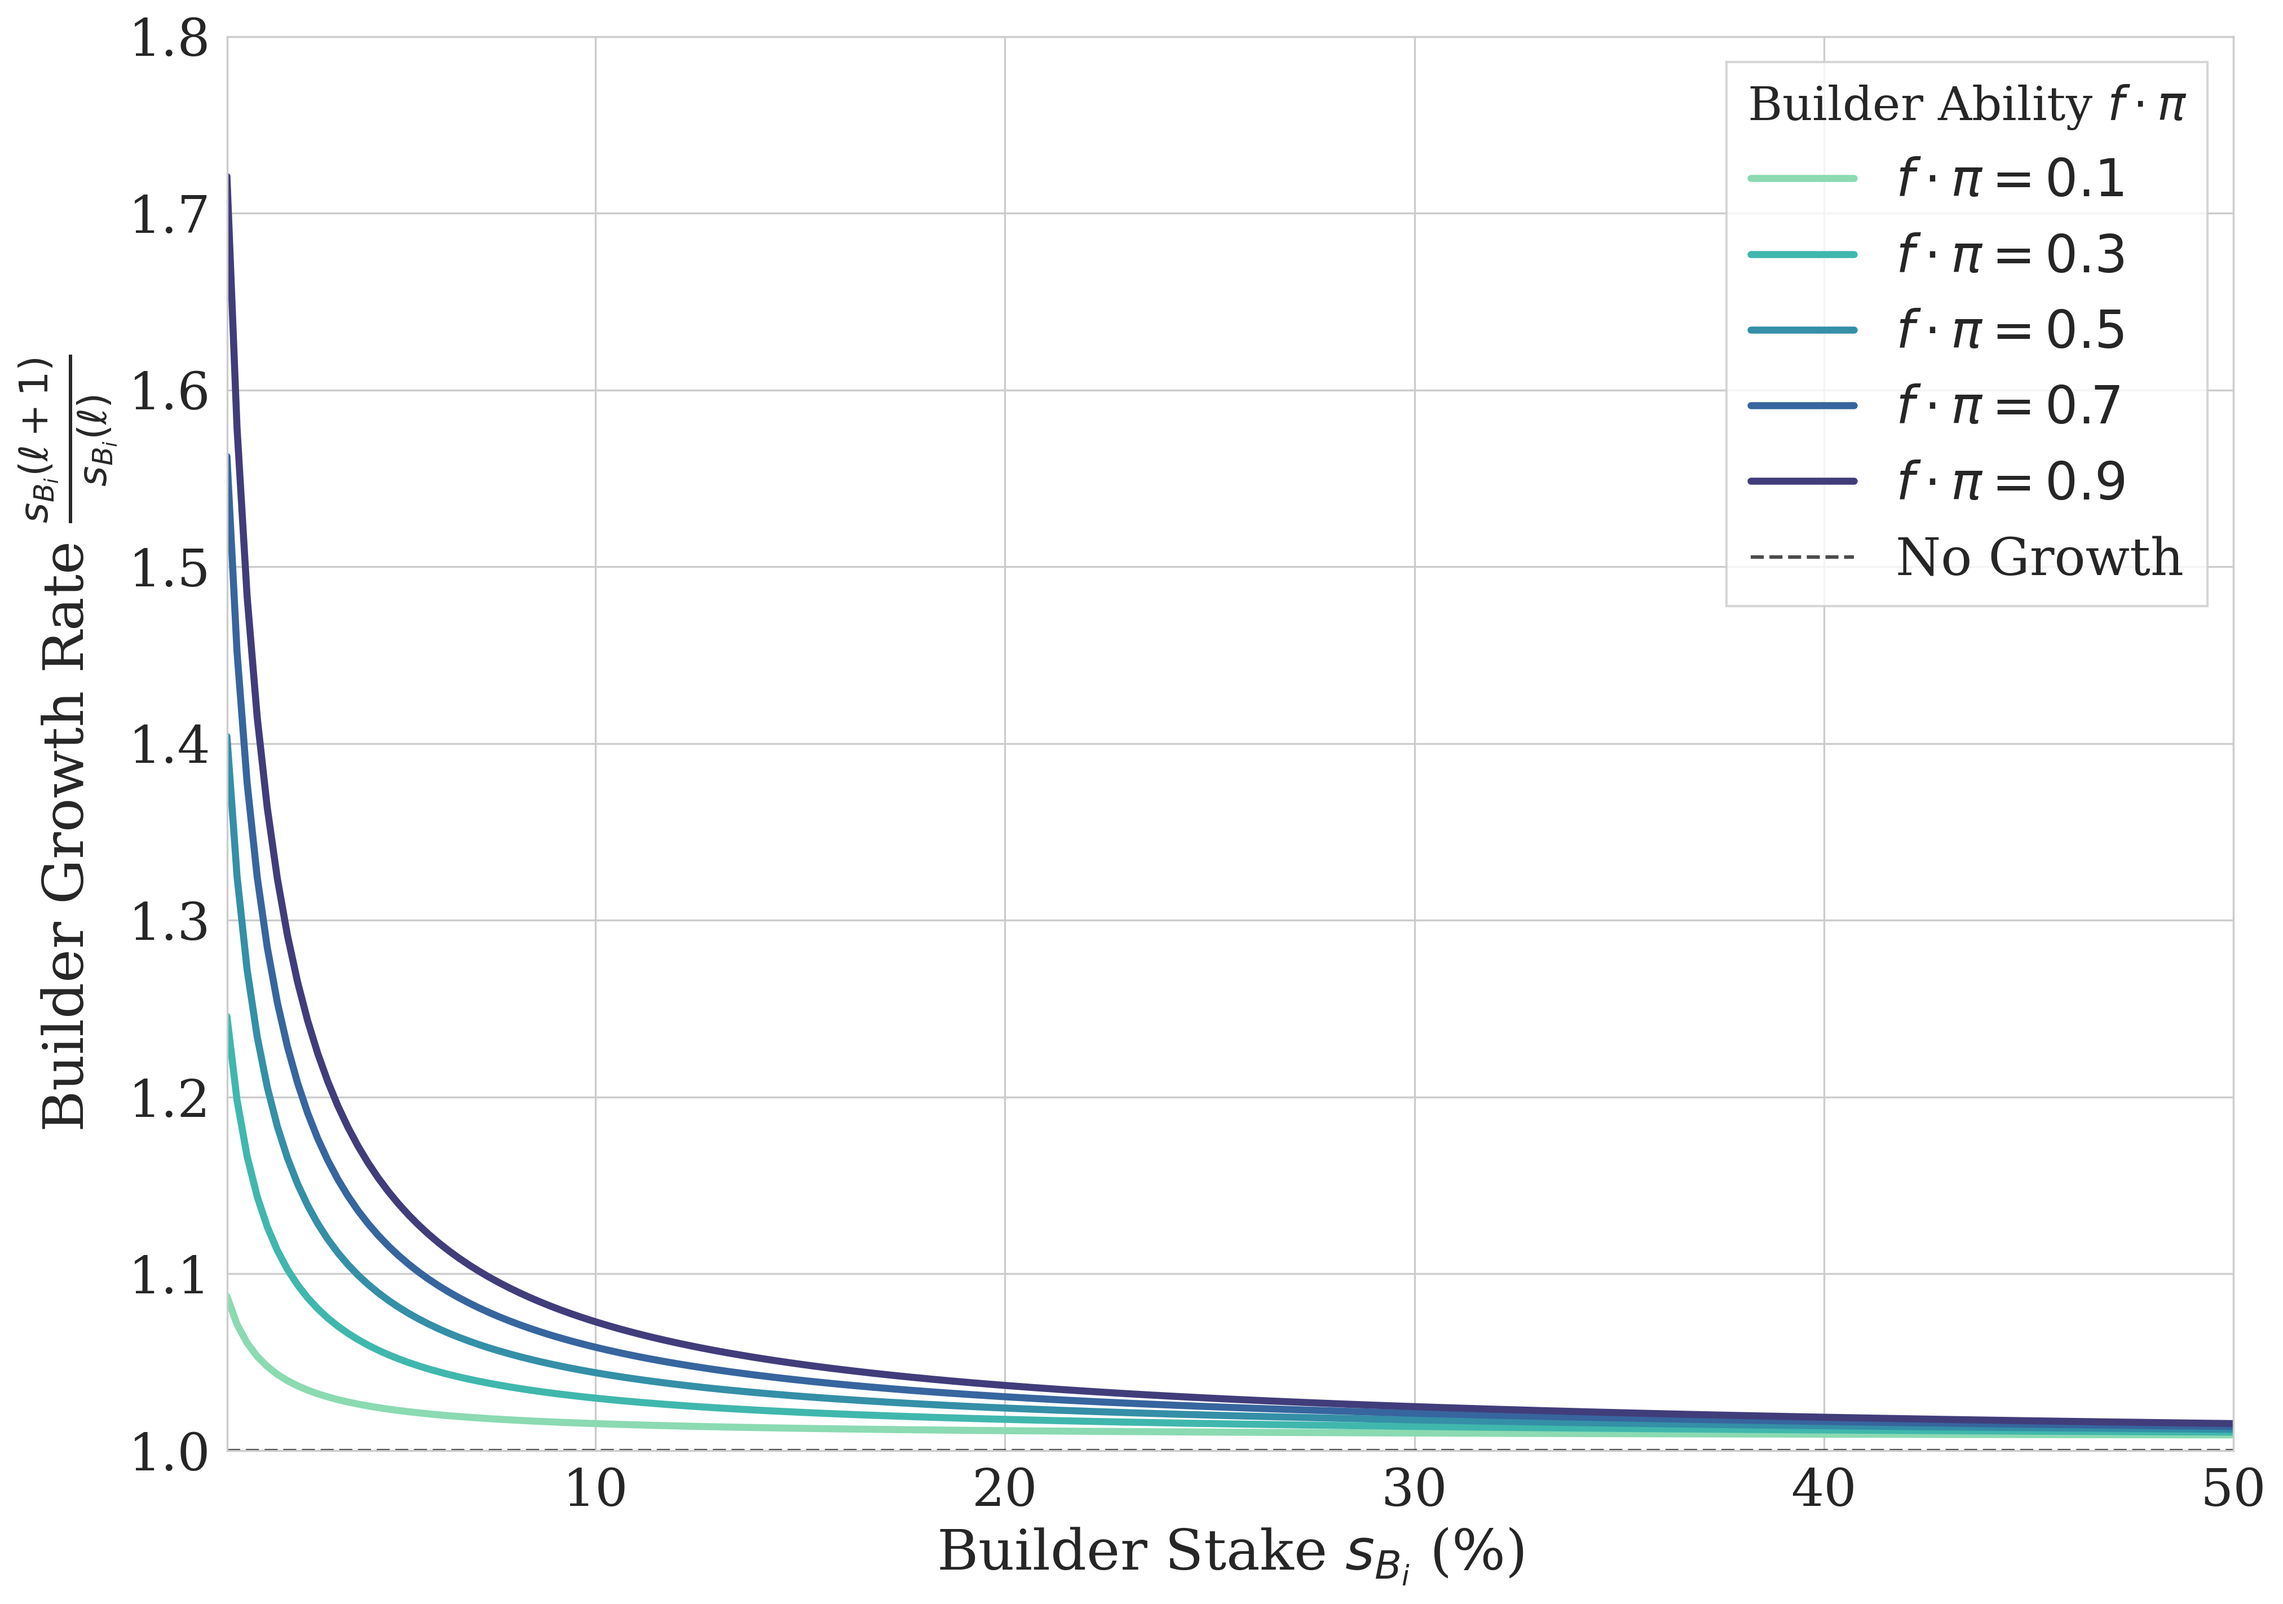
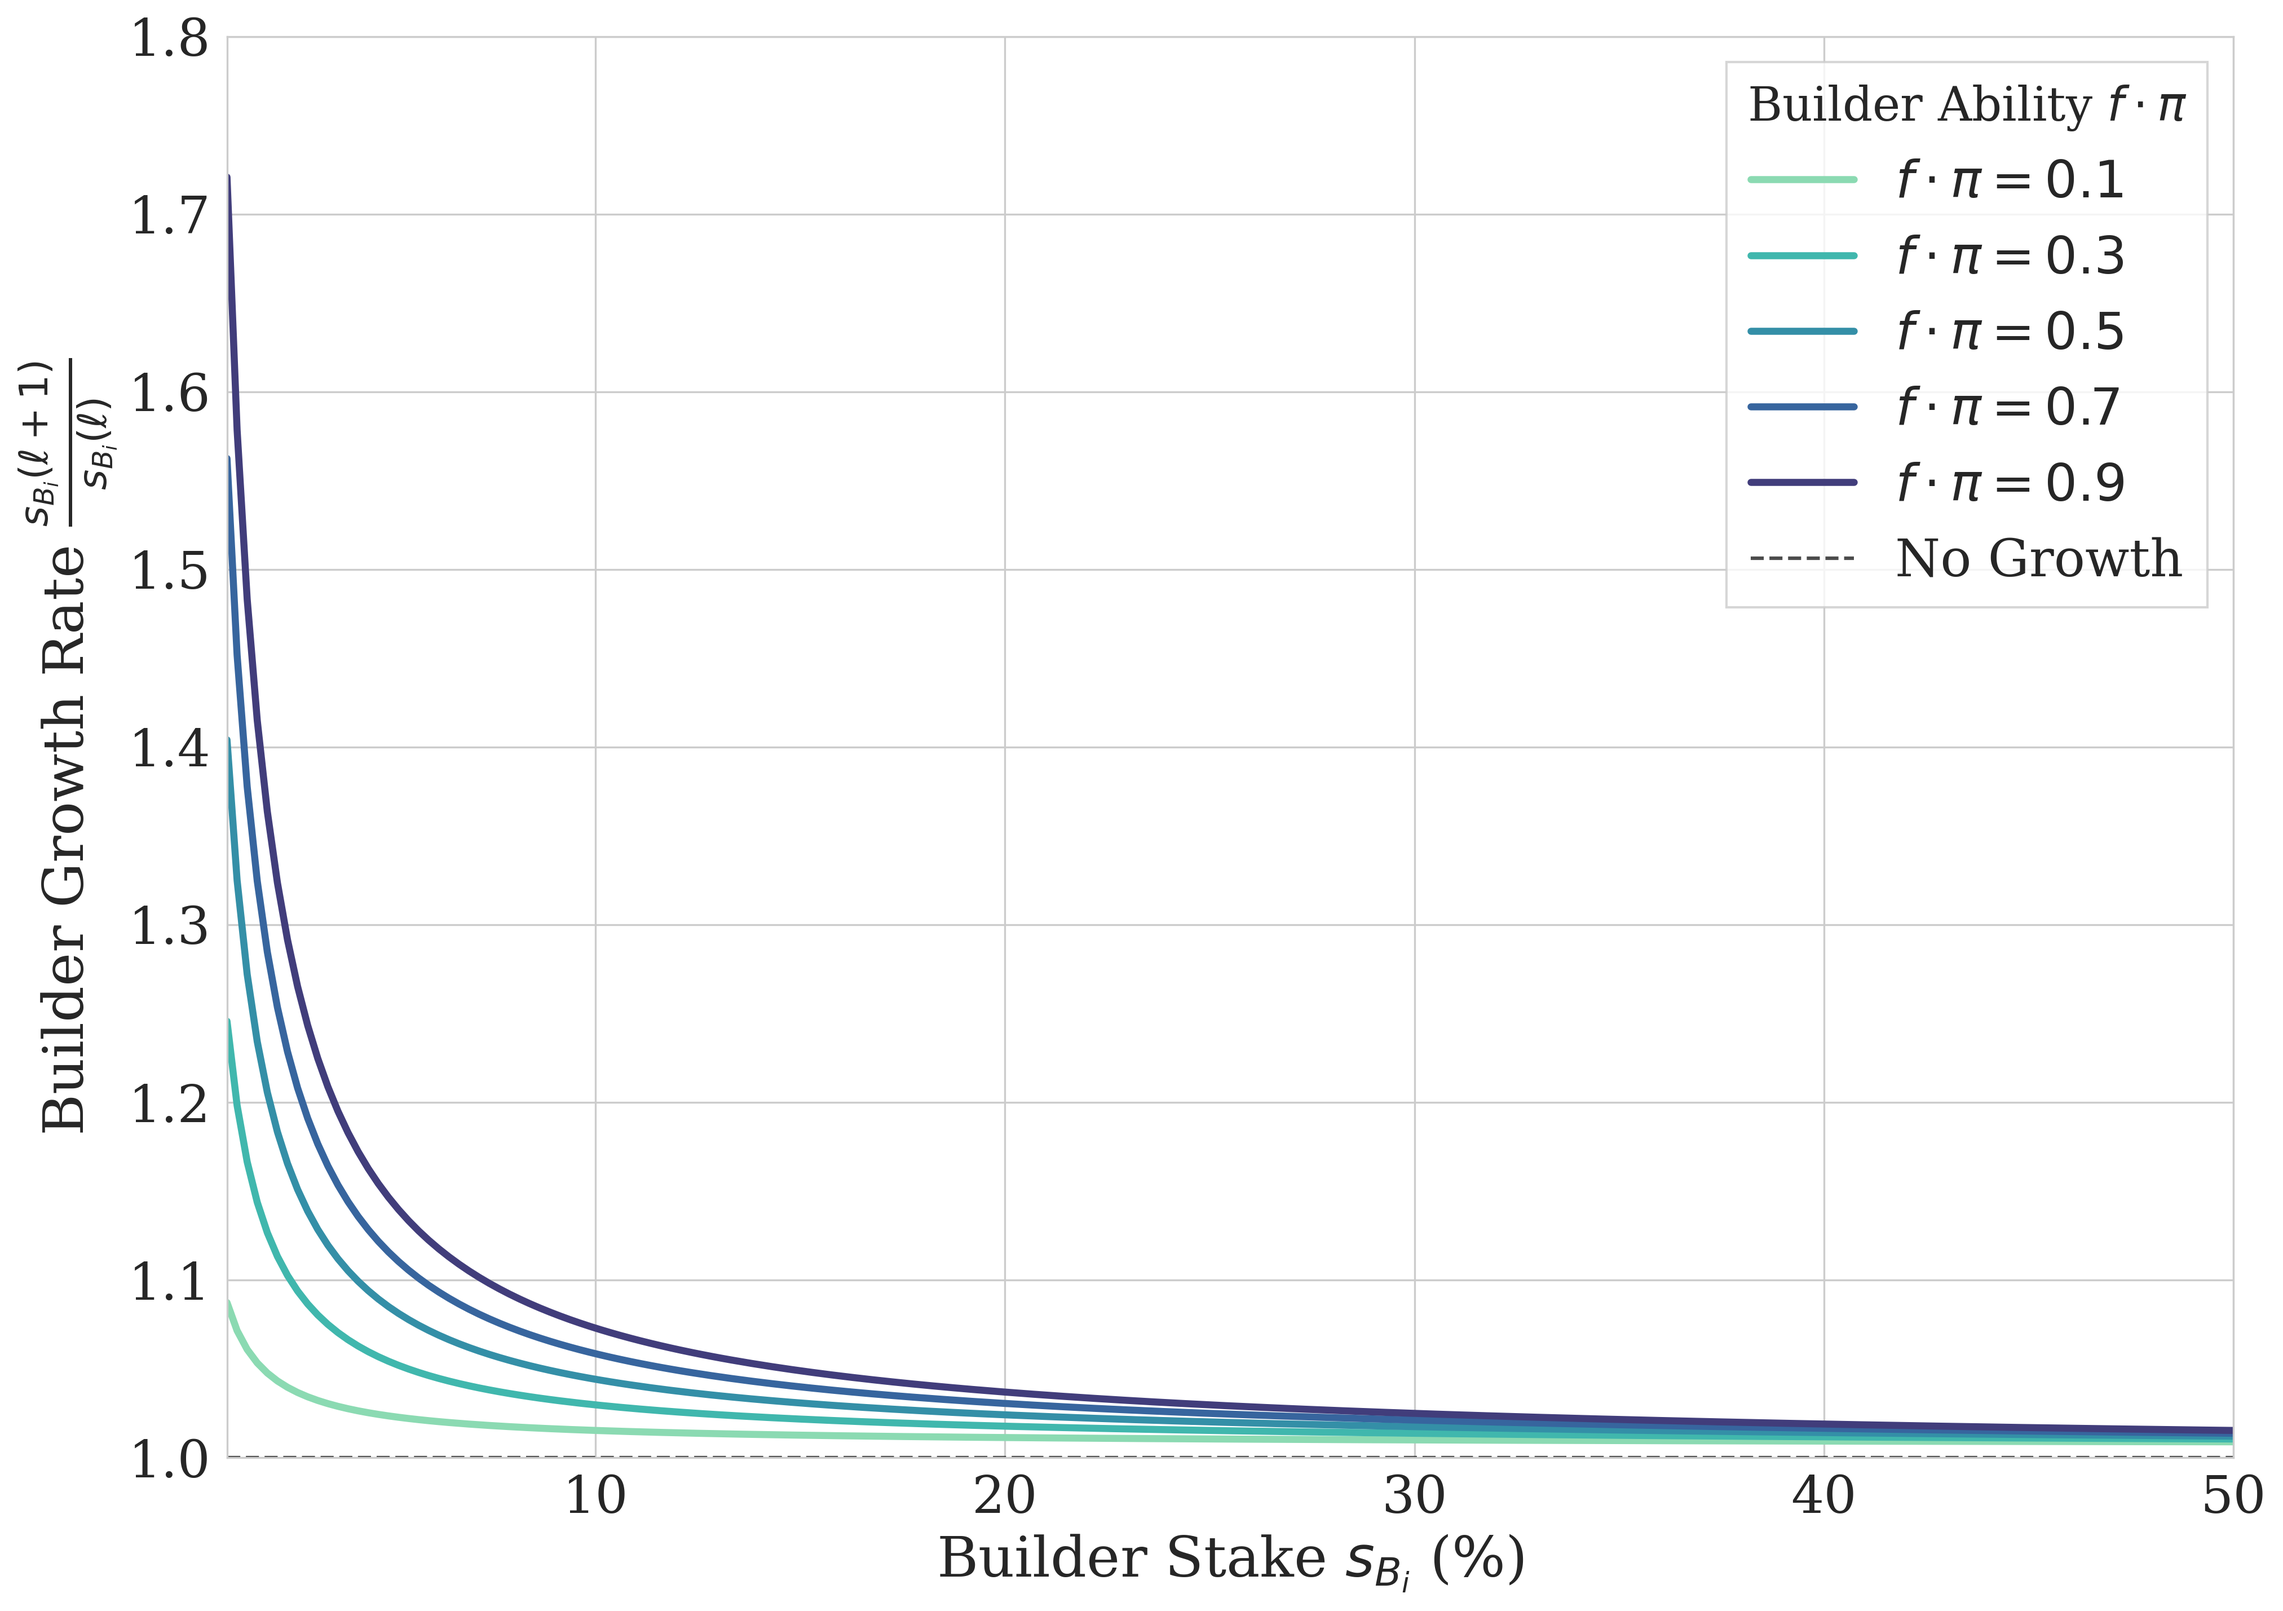
update theory

diff --git a/plots/theory/restaking.py b/plots/theory/restaking.py
@@ -1,0 +1,216 @@
+import numpy as np
+import matplotlib.pyplot as plt
+import seaborn as sns
+from matplotlib import rcParams
+
+# Set up seaborn plotting style
+sns.set_style("whitegrid")
+palette = sns.color_palette("mako_r", 6)
+rcParams.update({
+    'font.family': 'serif',
+    'font.size': 22,
+    'axes.labelsize': 24,
+    'xtick.labelsize': 22,
+    'ytick.labelsize': 22,
+    'legend.fontsize': 22
+})
+
+def builder_growth_rate(f_pi, s_Bi, total_stake, gamma_Bi, v_i_T):
+    """Calculate the builder growth rate based on the derived formula."""
+    term1 = v_i_T * (1 - f_pi) / total_stake
+    term2 = f_pi * v_i_T / s_Bi
+    growth_rate = 1 + gamma_Bi * (term1 + term2)
+    return growth_rate
+
+def proposer_growth_rate(f_pi, s_Pi, total_stake, gamma_Pi, b_i_T):
+    """Calculate the proposer growth rate based on the derived formula."""
+    # Original simple formula: s_Pi(ℓ+1) = s_Pi(ℓ) + γ_Pi * (s_Pi(ℓ)/∑_j s_j(ℓ)) * b_i,T(ℓ)
+    # Growth rate = 1 + γ_Pi * b_i,T / ∑_j s_j
+    # Scale up b_i_T to make it comparable to builder plots
+    scaled_reward = f_pi * b_i_T * 10  # Scale factor to match builder range
+    growth_rate = 1 + gamma_Pi * scaled_reward / total_stake
+    return growth_rate
+
+def create_builder_growth_theory_plot():
+    """Create the theoretical plot showing builder growth rate vs stake percentage for different f·π values."""
+    
+    # Parameters
+    stake_percentages = np.linspace(0.01, 0.5, 200)  # 1% to 50% of total stake
+    total_stake = 1000
+    gamma_Bi = 0.8
+    v_i_T = 10
+    
+    # Different f·π values
+    f_pi_values = [0.1, 0.3, 0.5, 0.7, 0.9]
+    
+    # Create the plot
+    fig, ax = plt.subplots(figsize=(14, 10))
+    
+    # Plot each f·π value
+    for i, f_pi in enumerate(f_pi_values):
+        growth_rates = []
+        for stake_pct in stake_percentages:
+            s_Bi = total_stake * stake_pct
+            growth_rate = builder_growth_rate(f_pi, s_Bi, total_stake, gamma_Bi, v_i_T)
+            growth_rates.append(growth_rate)
+        
+        ax.plot(stake_percentages * 100, growth_rates, 
+                linewidth=3, color=palette[i], label=f'$f \cdot \pi = {f_pi}$')
+    
+    # Add horizontal line at growth rate = 1
+    ax.axhline(y=1, color='black', linestyle='--', alpha=0.7, linewidth=1.5, 
+               label='No Growth')
+    
+    # Customize the plot
+    ax.set_xlabel(r'Builder Stake $s_{B_i}$ (%)', fontsize=24)
+    ax.set_ylabel(r'Builder Growth Rate $\frac{s_{B_i}(\ell+1)}{s_{B_i}(\ell)}$', fontsize=24)
+    ax.set_xlim(1, 50)
+    ax.set_ylim(1.0, 1.8)
+    
+    # Legend
+    ax.legend(title=r'Builder Ability $f \cdot \pi$', title_fontsize=20, fontsize=22, 
+             loc='upper right', frameon=True, fancybox=False, shadow=False)
+    
+    plt.tight_layout()
+    return fig
+
+
+def create_stake_evolution_plot():
+    """Create the plot showing builder stake evolution over time slots."""
+    
+    # Parameters
+    total_stake = 1000
+    gamma_Bi = 0.8
+    v_i_T = 10
+    
+    # Different fπ values
+    f_pi_values = [0.1, 0.3, 0.5, 0.7, 0.9]
+    
+    # Single initial stake (small starting point)
+    initial_stake = 10  # Start with 1% of total stake
+    s_initial = initial_stake
+    
+    # Time slots - more blocks
+    time_slots = np.arange(0, 201)  # 0 to 200 slots
+    
+    # Create the plot
+    fig, ax = plt.subplots(figsize=(14, 10))
+    
+    # Plot for each fπ value
+    for i, f_pi in enumerate(f_pi_values):
+        # Calculate stake evolution
+        stakes = [s_initial]
+        
+        for slot in range(1, len(time_slots)):
+            # Calculate growth rate
+            growth_rate = builder_growth_rate(f_pi, stakes[-1], total_stake, gamma_Bi, v_i_T)
+            # Update stake
+            new_stake = stakes[-1] * growth_rate
+            stakes.append(new_stake)
+        
+        # Plot the line
+        ax.plot(time_slots, stakes, 
+                linewidth=3, color=palette[i], label=f'$f \cdot \pi = {f_pi}$')
+    
+    # Add horizontal line for total stake
+    ax.axhline(y=total_stake, color='red', linestyle='--', alpha=0.7, linewidth=2, 
+               label='Total Stake')
+    
+    # Customize the plot
+    ax.set_xlabel(r'Time Slot $\ell$', fontsize=24)
+    ax.set_ylabel(r'Builder Stake $s_{B_i}$ (%)', fontsize=24)
+    ax.set_xlim(0, 200)
+    ax.set_ylim(0, total_stake)  # Stop at 100%
+    
+    # Convert y-axis to percentage
+    ax.yaxis.set_major_formatter(plt.FuncFormatter(lambda y, _: '{:.0f}'.format(y/total_stake*100)))
+    
+    # Legend
+    ax.legend(title=r'Builder Ability $f \cdot \pi$', title_fontsize=20, fontsize=22, 
+             loc='upper left', frameon=True, fancybox=False, shadow=False)
+    
+    plt.tight_layout()
+    return fig
+
+def create_proposer_stake_evolution_plot():
+    """Create the plot showing proposer stake evolution over time slots."""
+    
+    # Parameters
+    total_stake = 1000
+    gamma_Pi = 0.8
+    b_i_T = 10  # Fixed proposer reward
+    
+    # Different f·π values (same as builder)
+    f_pi_values = [0.1, 0.3, 0.5, 0.7, 0.9]
+    
+    # Single initial stake (small starting point)
+    initial_stake = 10  # Start with 1% of total stake
+    s_initial = initial_stake
+    
+    # Time slots - more blocks
+    time_slots = np.arange(0, 201)  # 0 to 200 slots
+    
+    # Create the plot
+    fig, ax = plt.subplots(figsize=(14, 10))
+    
+    # Plot for each f·π value
+    for i, f_pi in enumerate(f_pi_values):
+        # Calculate stake evolution
+        stakes = [s_initial]
+        
+        for slot in range(1, len(time_slots)):
+            # Calculate growth rate
+            growth_rate = proposer_growth_rate(f_pi, stakes[-1], total_stake, gamma_Pi, b_i_T)
+            # Update stake
+            new_stake = stakes[-1] * growth_rate
+            stakes.append(new_stake)
+        
+        # Plot the line
+        ax.plot(time_slots, stakes, 
+                linewidth=3, color=palette[i], label=f'$f \cdot \pi = {f_pi}$')
+    
+    # Add horizontal line for total stake
+    ax.axhline(y=total_stake, color='red', linestyle='--', alpha=0.7, linewidth=2, 
+               label='Total Stake')
+    
+    # Customize the plot
+    ax.set_xlabel(r'Time Slot $\ell$', fontsize=24)
+    ax.set_ylabel(r'Proposer Stake $s_{{P_i}}$ (%)', fontsize=24)
+    ax.set_xlim(0, 200)
+    ax.set_ylim(0, total_stake)  # Stop at 100%
+    
+    # Convert y-axis to percentage
+    ax.yaxis.set_major_formatter(plt.FuncFormatter(lambda y, _: '{:.0f}'.format(y/total_stake*100)))
+    
+    # Legend
+    ax.legend(title=r'Proposer Ability $f \cdot \pi$', title_fontsize=20, fontsize=22, 
+             loc='upper left', frameon=True, fancybox=False, shadow=False)
+    
+    plt.tight_layout()
+    return fig
+
+
+if __name__ == "__main__":
+    # Generate selected plots
+    print("Generating builder growth rate theory plot...")
+    fig1 = create_builder_growth_theory_plot()
+    fig1.savefig('figures/theory/builder_growth_rate.png', bbox_inches='tight', dpi=300)
+    print("Builder growth rate theory plot generated successfully!")
+    print("File saved: figures/theory/builder_growth_rate.png")
+    
+    print("\nGenerating builder stake evolution plot...")
+    fig2 = create_stake_evolution_plot()
+    fig2.savefig('figures/theory/builder_stake_evolution.png', bbox_inches='tight', dpi=300)
+    print("Builder stake evolution plot generated successfully!")
+    print("File saved: figures/theory/builder_stake_evolution.png")
+    
+    print("\nGenerating proposer stake evolution plot...")
+    fig3 = create_proposer_stake_evolution_plot()
+    fig3.savefig('figures/theory/proposer_stake_evolution.png', bbox_inches='tight', dpi=300)
+    print("Proposer stake evolution plot generated successfully!")
+    print("File saved: figures/theory/proposer_stake_evolution.png")
+    
+    print("\nAll selected plots generated successfully!")
+    
+    # Show all plots
+    plt.show()
